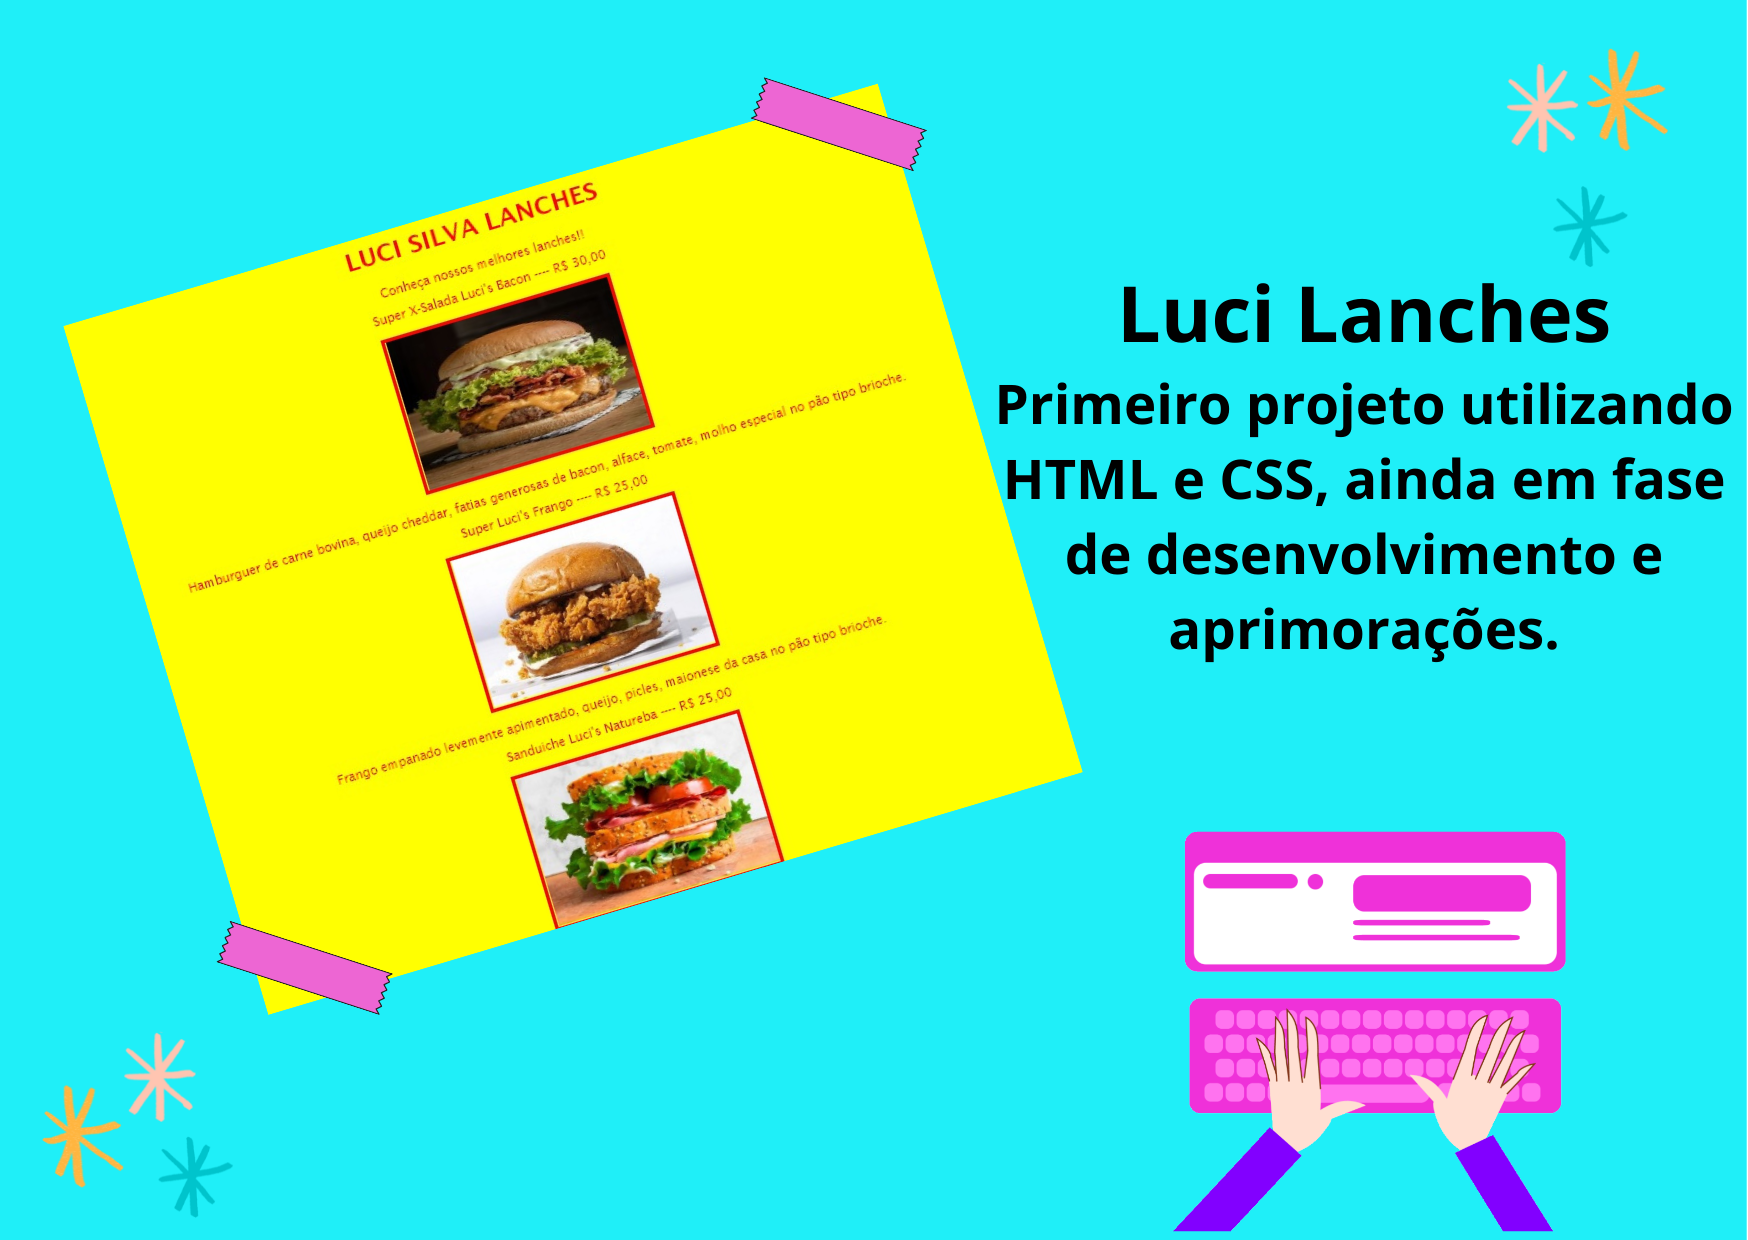
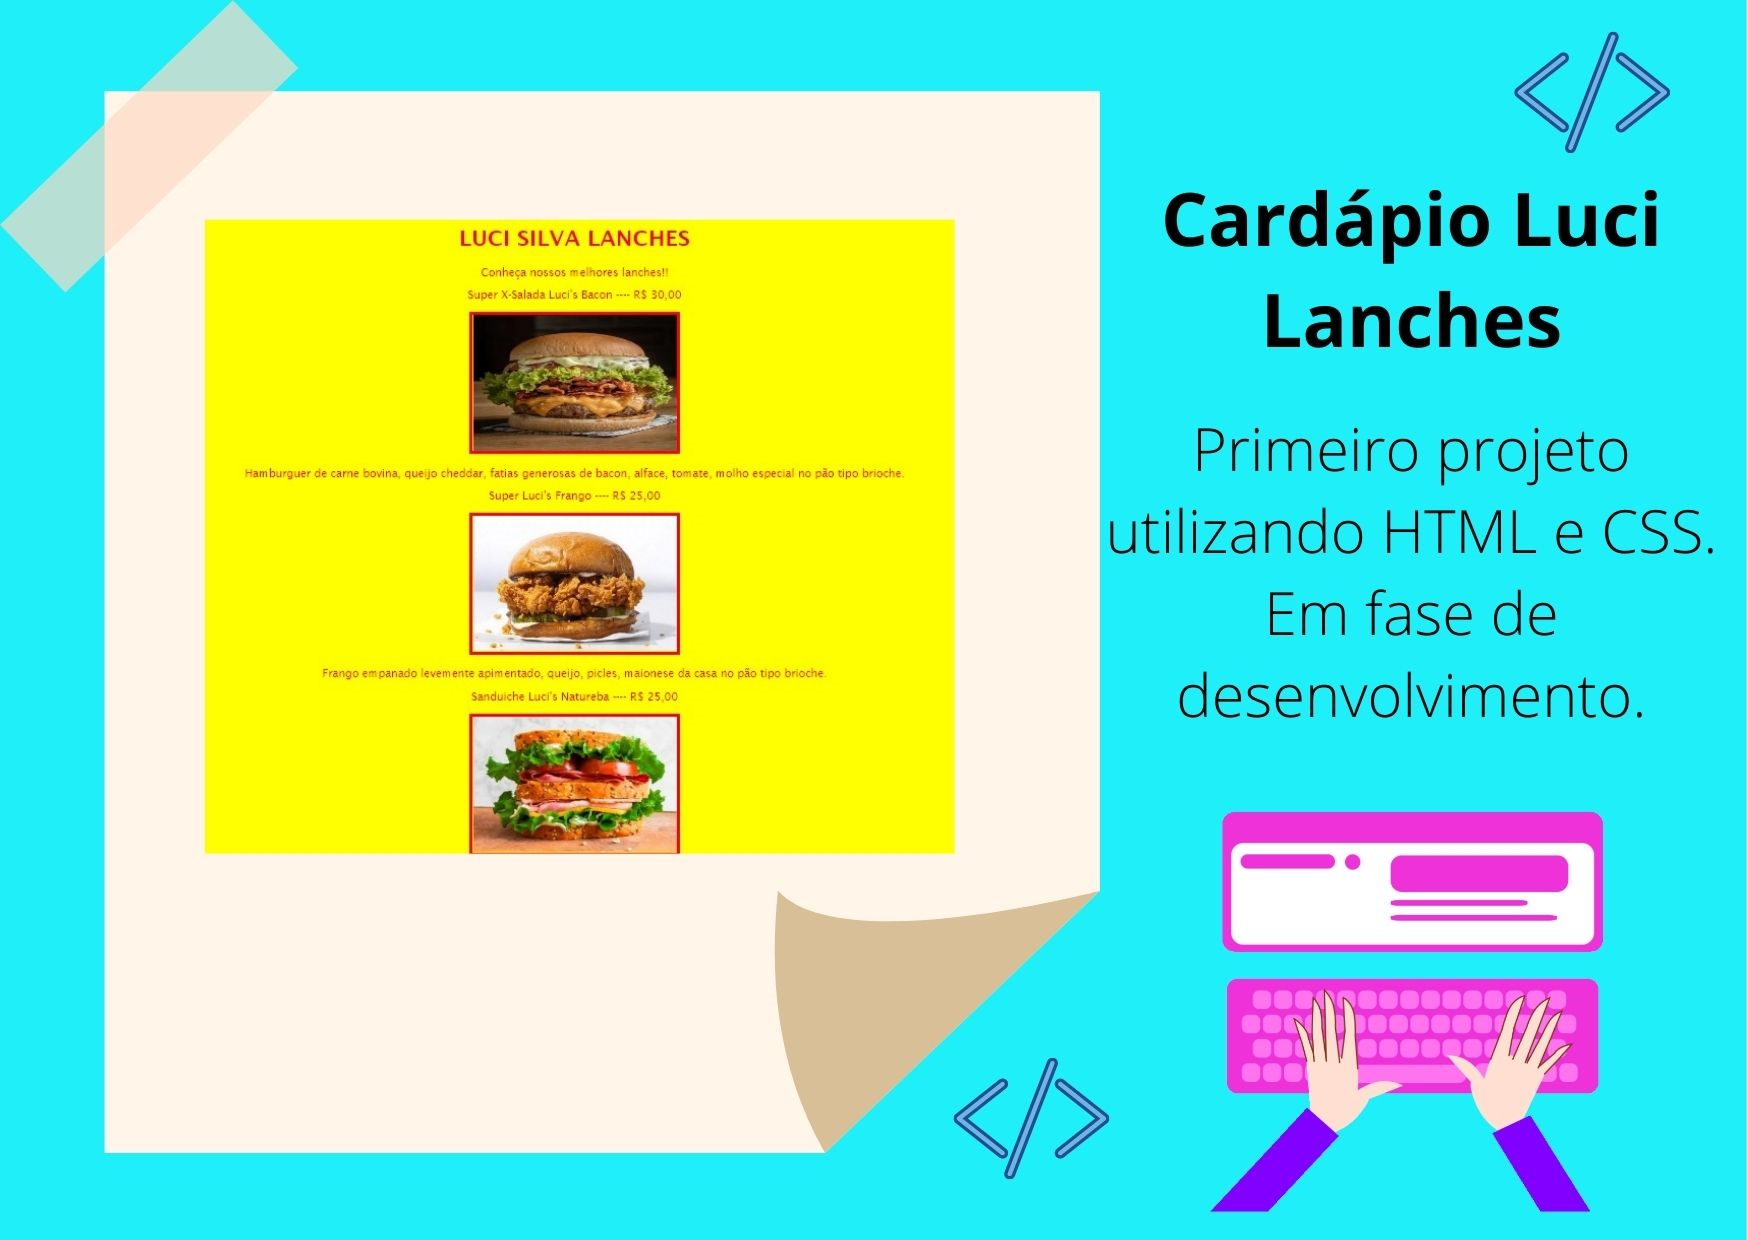
Add files via upload
Finalização do slide.

diff --git a/project.html b/project.html
@@ -7,6 +7,55 @@
     <title>Projetos</title>
     <link rel="icon" type="image/x-icon" href="/img/favicon.ico">
     <link rel="stylesheet" href="styleproject.css">
+    <style type="text/css">
+
+#slider {
+    margin: 0 auto;
+    width: 800px;
+    height: 600px;
+    overflow: hidden;
+}
+#slider figure {
+    position: relative;
+    width: 500%;
+    margin: 0;
+    left: 0;
+    animation: 20s slider infinite;
+}
+#slider figure img {
+    width: 20%;
+    float: left;
+}
+
+@keyframes slider {
+    0% {
+        left: 0;
+    }
+    20% {
+        left: 0;
+    }
+    25% {
+        left: -100%;
+    }
+    45% {
+        left: -100%;
+    }
+    50% {
+        left: -200%;
+    }
+    70% {
+        left: -200%;
+    }
+    75% {
+        left: -300%;
+    }
+    95% {
+        left: -300%;
+    }
+
+}
+
+</style>
 </head>
 <body>
     <div class="container">
@@ -28,60 +77,28 @@
                 <h1>Projetos</h1>
             </div>
     </header>
-            <div class="slider">
-                
-                <div class="slides">
-                    <!--Radio Buttons-->
-                    <input type="radio" name="radio-btn" id="radio1">
-                    <input type="radio" name="radio-btn" id="radio2">
-                    <input type="radio" name="radio-btn" id="radio3">
-                    <input type="radio" name="radio-btn" id="radio4">
-                    <!--Fim Radio Buttons-->
-        
-                    <!--Slide images-->
-                    <div class="slide first">
-                            <img src="./img/slide_a.png" alt="Imagem 1" />
-                    </div>
-                    <div class="slide">
-                            <img src="./img/slide_b.png" alt="Imagem 2" />
-                    </div>
-                    <div class="slide">
-                            <img src="./img/slide_c.png" alt="Imagem 3" />
-                    </div>   
-                    <div class="slide">
-                            <img src="./img/slide_d.png" alt="Imagem 4" />
-                    </div>
-                    <!--Fim Slide images-->
-        
-                    <!--Navigation auto-->
-                    <div class="navigation-auto">
-                        <div class="auto-btn1"></div>
-                        <div class="auto-btn2"></div>
-                        <div class="auto-btn3"></div>
-                        <div class="auto-btn4"></div>
-                    </div>
-        
-                </div>
-        
-                <div class="manual-navigation">
-                    <label for="radio1" class="manual-btn"></label>
-                    <label for="radio2" class="manual-btn"></label>
-                    <label for="radio3" class="manual-btn"></label>
-                    <label for="radio4" class="manual-btn"></label>
-                </div>
-        
-        
-            </div>
-                
-                <script src="script.js"></script>  
-                
-                <section class="center">
-                    <h2>Para conhecer mais detalhes de cada projeto, click nos links abaixo:</h2>
-                    <br>
-                    <h3>Projeto 1</h3>
-                    <a href="https://lucicleidepsilva.github.io/Luci_Lanches/" target="_blank">
-                    Cardápio Luci Lanches</a>
-                </section>
     </div>
-</body>
-</html> 
+
+    <div id="slider">
+        <figure>
+            <img src="./img/slide_a.png">
+            <img src="./img/slide_b.png">
+            <img src="./img/slide_c.png">
+            <img src="./img/slide_d.png">
+        </figure>
+    </div>
+    
+    <section class="center">
+        <h2>Para conhecer mais detalhes de cada projeto, click nos links abaixo:</h2>
+        <br>
+        <h3>Projeto 1</h3>
+        <a href="https://lucicleidepsilva.github.io/Luci_Lanches/" target="_blank">
+        Cardápio Luci Lanches</a>
+        <br>
+        <h3>Projeto 2</h3>
+        <a href="https://lucicleidepsilva.github.io/relogio_digital/" target="_blank">
+        Relógio Digital</a>
+    </section>
+
+</body>    
+</html>

diff --git a/styleproject.css b/styleproject.css
@@ -29,7 +29,6 @@ header {
 .center {
     text-align: center;
 }
-
 h1 {
     color: aqua;
     font-size: 50px;
@@ -37,111 +36,9 @@ h1 {
     font-family: 'Segoe UI', Tahoma, Geneva, Verdana, sans-serif;
     text-shadow: 2px 2px white;
 }
-.slider {
-    margin: 0 auto;
-    width: 800px;
-    height: 600px;
-    overflow: hidden;
-}
-.slides{
-    width: 400%;
-    height: 400px;
-    display: flex;
-}
-.slides input {
-    display: none;
-}
-
-.slide {
-    width: 25%;
-    position: relative;
-    transition: 2s;
-}
-
-.slide img {
-    width: 800px;
-    
-}
-
-.manual-navigation {
-    position: absolute;
-    width: 800px;
-    margin-top: 140px;
-    display: flex;
-    justify-content: center;
-}
-
-.manual-btn {
-    border: 2px solid #0a0000;
-    padding: 5px;
-    border-radius: 10px;
-    cursor: pointer;
-    transition: 1s;
-}
-
-.manual-btn:not(:last-child){
-    margin-right: 40px;
-}
-
-.manual-btn:hover{
-    background-color: #030342;
-}
-
-#radio1:checked ~ .first{
-    margin-left: 0;
-}
-
-#radio2:checked ~ .first{
-    margin-left: -25%;
-}
-
-#radio3:checked ~ .first{
-    margin-left: -50%;
-}
-
-#radio4:checked ~ .first{
-    margin-left: -75%;
-}
-
-.navigation-auto div{
-    border: 2px solid #f13ad3;
-    padding: 5px;
-    border-radius: 10px;
-    cursor: pointer;
-    transition: 1s;
-}
-
-.navigation-auto{
-    position: absolute;
-    width: 800px;
-    margin-top: 541px;
-    display: flex;
-    justify-content: center;
-}
-
-.navigation-auto div:not(:last-child){
-    margin-right: 40px;
-}
-
-#radio1:checked ~ .navigation-auto .auto-btn1{
-    background-color: #030342;
-}
-
-#radio2:checked ~ .navigation-auto .auto-btn2{
-    background-color: #030342;
-}
-
-#radio3:checked ~ .navigation-auto .auto-btn3{
-    background-color: #030342;
-}
-
-#radio4:checked ~ .navigation-auto .auto-btn4{
-    background-color: #030342;
-}
-
 h2 {
     color:aqua;
-    padding-top: 30px;
+    padding-top: 20px;
 }
 
 h3 {
@@ -152,7 +49,9 @@ h3 {
 .center a:hover {
     color:aqua;
 }
-.container {
-    padding: 0px 50px;
-}
 
+@media (max-width: 600px){
+    #slider {
+        width: 100% !important;
+    }
+}

diff --git a/style.css b/style.css
@@ -31,7 +31,7 @@ header img {
     width: 200px;
     height: 200px;
     border-radius: 50%;
-    border: 5px dotted aqua;
+    border: 5px double aqua;
 }
 
 .center {
